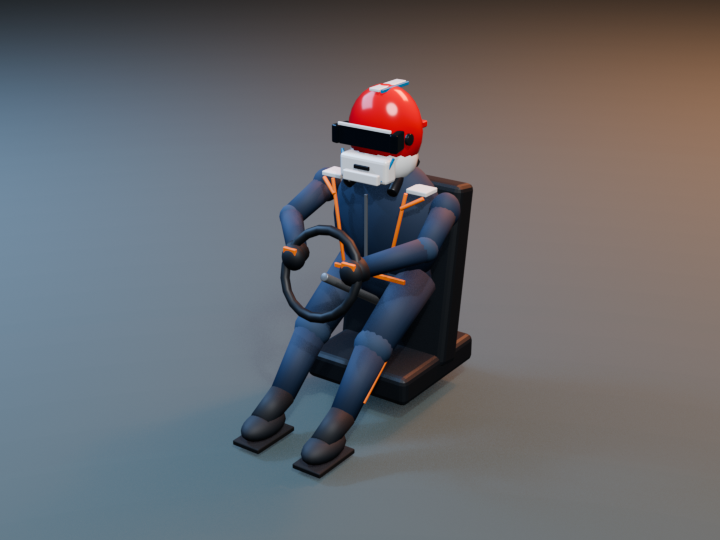
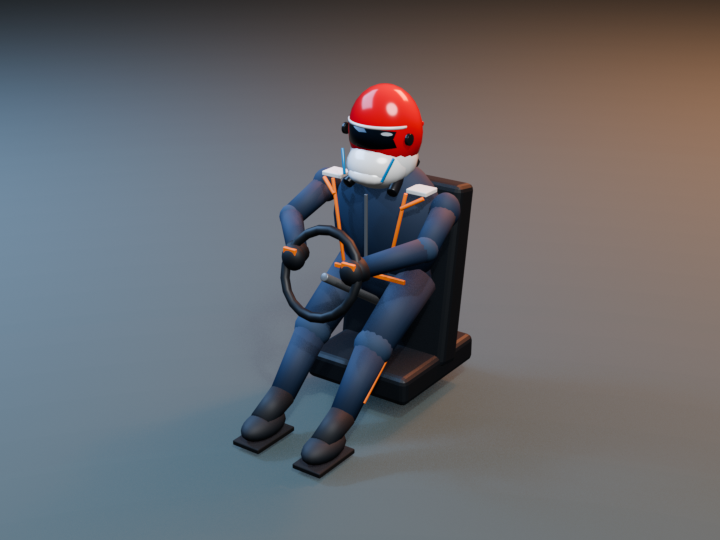
Fit curved visor to standard driver helmet

Changed region(s): [[0.4583, 0.2074, 0.5806, 0.3556], [0.5194, 0.1481, 0.5806, 0.1778], [0.5806, 0.2074, 0.6111, 0.237]]

diff --git a/tools/blender/generators/generate_drivers.py b/tools/blender/generators/generate_drivers.py
@@ -9,6 +9,7 @@ from pathlib import Path
 from asset_helpers import (ASSET_PROP, asset_objects, bar, build_rigid_rig,
                            cone, create_rig_action, cube, cylinder, empty,
                            export_asset, material, reset_scene, sphere, torus)
+import bpy
 from mathutils import Vector
 
 
@@ -24,6 +25,55 @@ DRIVERS = {
 REQUIRED = ["driver_root", "root", "head", "arm_L", "arm_R",
             "driver_rig", "driver_root_bone", "head_bone", "arm_L_bone",
             "arm_R_bone"]
+
+
+def curved_helmet_panel(name, center, radius_x, radius_y, height,
+                        sweep_degrees, thickness, edge_taper, mat, owner,
+                        segments=18):
+    """Build a thin wraparound panel conforming to the helmet ellipsoid."""
+    vertices = []
+    sweep = math.radians(sweep_degrees)
+    for layer in range(2):
+        inset = layer * thickness
+        for index in range(segments + 1):
+            angle = -sweep + 2.0 * sweep * index / segments
+            edge = abs(angle / sweep) ** 1.6
+            half_height = height * 0.5 - edge_taper * edge
+            layer_radius_x = radius_x - inset
+            layer_radius_y = radius_y - inset
+            x = center[0] + layer_radius_x * math.sin(angle)
+            y = center[1] - layer_radius_y * math.cos(angle)
+            vertices.extend(((x, y, center[2] - half_height),
+                             (x, y, center[2] + half_height)))
+
+    stride = (segments + 1) * 2
+    faces = []
+    for index in range(segments):
+        outer = index * 2
+        outer_next = outer + 2
+        inner = stride + outer
+        inner_next = inner + 2
+        faces.extend((
+            (outer, outer_next, outer_next + 1, outer + 1),
+            (inner + 1, inner_next + 1, inner_next, inner),
+            (outer + 1, outer_next + 1, inner_next + 1, inner + 1),
+            (outer, inner, inner_next, outer_next),
+        ))
+    faces.extend(((0, 1, stride + 1, stride),
+                  (segments * 2, stride + segments * 2,
+                   stride + segments * 2 + 1, segments * 2 + 1)))
+
+    mesh = bpy.data.meshes.new(f"{name}_mesh")
+    mesh.from_pydata(vertices, [], faces)
+    mesh.update()
+    obj = bpy.data.objects.new(name, mesh)
+    bpy.context.scene.collection.objects.link(obj)
+    obj[ASSET_PROP] = True
+    obj.data.materials.append(mat)
+    obj.parent = owner
+    for polygon in mesh.polygons:
+        polygon.use_smooth = True
+    return obj
 
 
 def tapered_bar(name, start, end, start_radius, end_radius, mat, owner):
@@ -81,24 +131,20 @@ def make_standard_driver(torso, head, arm_l, arm_r, leg_l, leg_r, mats):
            mats["helmet_red"], head, 22, 14)
     sphere("helmet_lower_shell", (0, -0.002, 0.018),
            (0.138, 0.120, 0.122), mats["helmet_white"], head, 18, 10)
-    cube("helmet_chin_guard", (0, -0.112, -0.005),
-         (0.218, 0.072, 0.098), mats["helmet_white"], head, 0.022)
-    cube("helmet_chin_lip", (0, -0.153, -0.034),
-         (0.160, 0.025, 0.040), mats["helmet_white"], head, 0.010)
+    sphere("helmet_chin_guard", (0, -0.042, -0.008),
+           (0.125, 0.120, 0.094), mats["helmet_white"], head, 20, 12)
+    sphere("helmet_chin_lip", (0, -0.108, -0.036),
+           (0.087, 0.061, 0.040), mats["helmet_white"], head, 16, 8)
 
-    # A flat central pane plus angled side panes reads as one wide curved visor
-    # instead of the floating black eye mask used by the previous model.
-    front_visor = cube("helmet_visor", (0, -0.129, 0.112),
-                       (0.232, 0.012, 0.074), mats["visor"], head, 0.013)
-    front_visor.rotation_euler.x = math.radians(-3)
-    visor_strip = cube("visor_reinforcement", (0, -0.136, 0.154),
-                       (0.238, 0.010, 0.012), mats["helmet_white"], head, 0.003)
-    visor_strip.rotation_euler.x = math.radians(-3)
+    # The visor and its upper reinforcement are continuous curved meshes that
+    # track the crown radius from cheek to cheek.
+    curved_helmet_panel("helmet_visor", (0, 0.004, 0.112),
+                        0.140, 0.137, 0.078, 67, 0.006, 0.012,
+                        mats["visor"], head, segments=20)
+    curved_helmet_panel("visor_reinforcement", (0, 0.004, 0.157),
+                        0.143, 0.140, 0.012, 68, 0.005, 0.001,
+                        mats["helmet_white"], head, segments=20)
     for side in (-1, 1):
-        side_visor = cube(f"helmet_visor_side_{side:+}",
-                          (side * 0.126, -0.104, 0.111),
-                          (0.032, 0.082, 0.072), mats["visor"], head, 0.010)
-        side_visor.rotation_euler.z = side * math.radians(13)
         cylinder(f"helmet_hinge_{side:+}", (side * 0.145, -0.050, 0.112),
                  0.023, 0.014, mats["visor_trim"], head,
                  rotation=(0, math.pi / 2, 0), vertices=16, bevel=0.003)
@@ -106,16 +152,14 @@ def make_standard_driver(torso, head, arm_l, arm_r, leg_l, leg_r, mats):
             (side * 0.118, -0.112, 0.050),
             (side * 0.086, -0.144, -0.040), 0.006,
             mats["helmet_blue"], head)
-    cube("helmet_center_stripe", (0, 0.020, 0.284),
-         (0.044, 0.185, 0.012), mats["helmet_white"], head, 0.005)
-    cube("helmet_crown_accent", (0.032, 0.020, 0.282),
-         (0.010, 0.180, 0.014), mats["helmet_blue"], head, 0.004)
-    cube("helmet_rear_spoiler", (0, 0.130, 0.125),
-         (0.205, 0.032, 0.026), mats["helmet_red"], head, 0.007)
-    cube("helmet_chin_intake", (0, -0.153, 0.004),
-         (0.070, 0.010, 0.016), mats["visor_trim"], head, 0.003)
-    cube("helmet_vent_bank", (0, -0.159, -0.024),
-         (0.074, 0.008, 0.012), mats["visor_trim"], head, 0.002)
+    bar("helmet_rear_spoiler", (-0.090, 0.130, 0.125),
+        (0.090, 0.130, 0.125), 0.010, mats["helmet_red"], head)
+    curved_helmet_panel("helmet_chin_intake", (0, 0.000, 0.004),
+                        0.135, 0.153, 0.015, 19, 0.004, 0.001,
+                        mats["visor_trim"], head, segments=10)
+    curved_helmet_panel("helmet_vent_bank", (0, 0.000, -0.025),
+                        0.135, 0.156, 0.010, 18, 0.004, 0.001,
+                        mats["visor_trim"], head, segments=10)
 
     # Tapered sleeves, subtle elbow folds and gauntlet gloves. Hands converge
     # on the common steering-wheel hard point shared by all five cars.